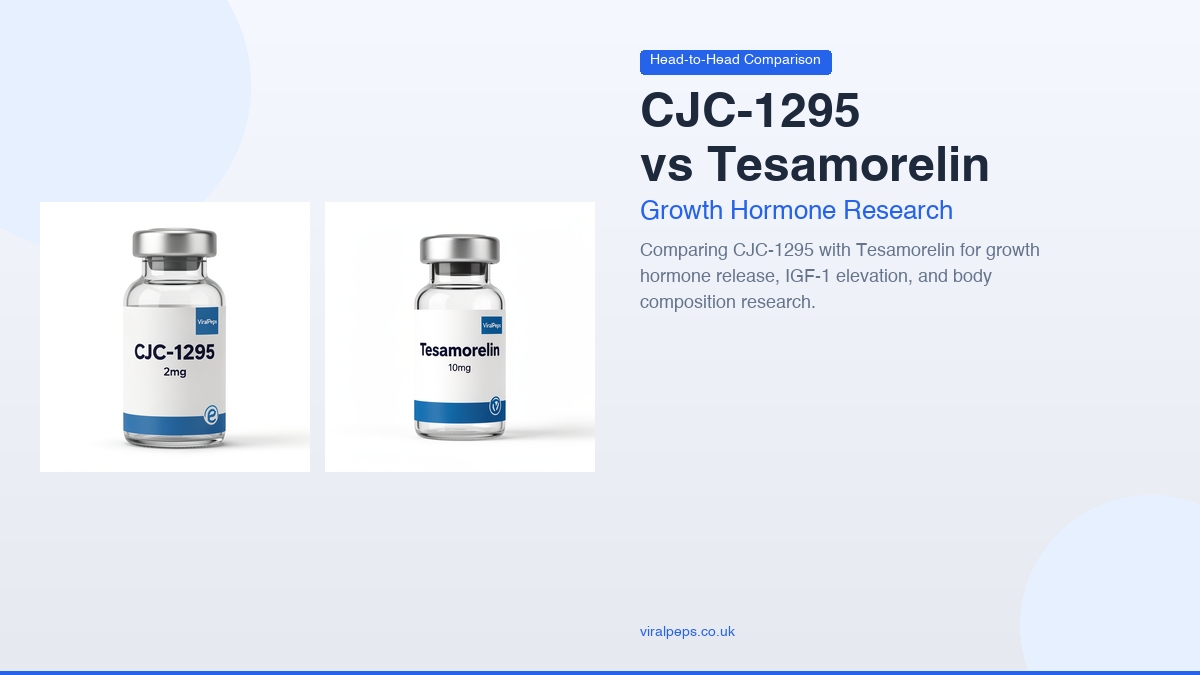
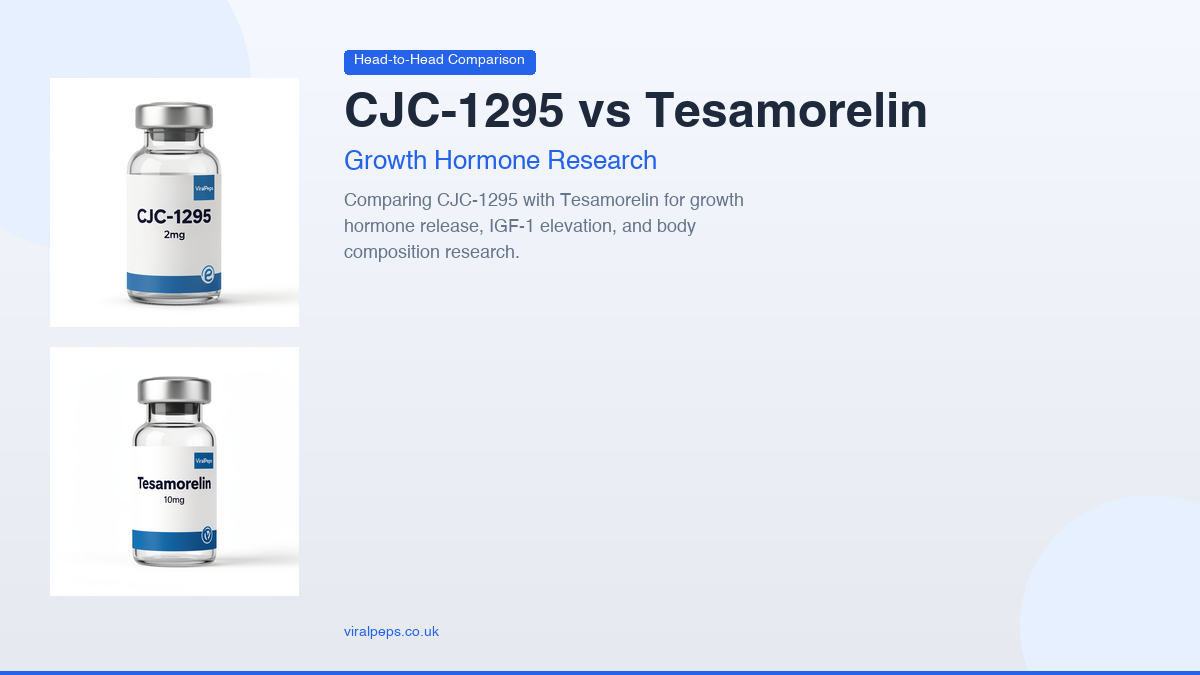
Revert deep dives to original purple style. Fix GHK-Cu vs Retinol & CJC-1295 vs Tesamorelin: vials stacked vertically at full size.

diff --git a/scripts/batch_generate_guide_cards.py b/scripts/batch_generate_guide_cards.py
@@ -69,20 +69,21 @@ def draw_guide_card(
         else:
             text_left = 50
     else:
-        # 2 vials: each at 40% card height, side by side with 15px gap
-        vial_h = int(card_h * 0.40)
-        gap = 15
-        start_x = 40
+        # 2 vials: stacked vertically, each at 37% card height (same visual size as single)
+        vial_h = int(card_h * 0.37)
+        gap = 20
+        start_y = int((card_h - (vial_h * 2 + gap)) / 2)
+        vial_x = 50
         
         for i, vial_path in enumerate(vial_paths[:2]):
             if os.path.exists(vial_path):
                 vial = Image.open(vial_path).convert("RGBA")
                 vw = int(vial_h * vial.width / vial.height)
                 vial = vial.resize((vw, vial_h), Image.LANCZOS)
-                card.paste(vial, (start_x, int((card_h - vial_h) / 2)), vial)
-                start_x += vw + gap
+                vy = start_y + i * (vial_h + gap)
+                card.paste(vial, (vial_x, vy), vial)
         
-        text_left = start_x + 30
+        text_left = vial_x + int(vial_h * 1.0) + 45
 
     # Ensure text has enough room
     if text_left > card_w - 200:
@@ -138,7 +139,7 @@ def draw_guide_card(
 
 # ============ CONFIG: Add/remove cards here ============
 CARDS = [
-    # === COMPARISONS (2 vials side-by-side, fixed text overlap) ===
+    # === COMPARISONS (2 vials stacked vertically, same size as single vial cards) ===
     {
         "compound": "GHK-Cu vs Retinol",
         "vial_paths": ["public/images/compounds/ghk-cu-vial.png", "public/images/compounds/ghk-cu-vial.png"],
@@ -161,271 +162,6 @@ CARDS = [
         ],
         "badge_text": "Head-to-Head Comparison",
         "subtitle_text": "Growth Hormone Research",
-    },
-    {
-        "compound": "Selank vs Semax",
-        "vial_paths": ["public/images/compounds/selank-vial.png", "public/images/compounds/semax-vial.png"],
-        "output_path": "public/images/guides/semax-vs-selank.png",
-        "description_lines": [
-            "Comparing Selank with Semax for anxiety",
-            "modulation, cognitive enhancement, and",
-            "neurological research applications.",
-        ],
-        "badge_text": "Head-to-Head Comparison",
-        "subtitle_text": "Cognitive Research",
-    },
-    {
-        "compound": "GHK-Cu vs BPC-157",
-        "vial_paths": ["public/images/compounds/ghk-cu-vial.png", "public/images/compounds/bpc-157-vial.png"],
-        "output_path": "public/images/guides/ghkcu-vs-bpc157.png",
-        "description_lines": [
-            "Comparing GHK-Cu with BPC-157 for tissue repair,",
-            "wound healing, anti-aging, and regenerative",
-            "medicine research applications.",
-        ],
-        "badge_text": "Head-to-Head Comparison",
-        "subtitle_text": "Tissue Repair Research",
-    },
-    {
-        "compound": "TB-500 vs BPC-157",
-        "vial_paths": ["public/images/compounds/tb-500-vial.png", "public/images/compounds/bpc-157-vial.png"],
-        "output_path": "public/images/guides/tb500-vs-bpc157.png",
-        "description_lines": [
-            "Comparing TB-500 (Thymosin Beta-4) with BPC-157",
-            "for tissue repair, inflammation modulation, and",
-            "regenerative peptide research.",
-        ],
-        "badge_text": "Head-to-Head Comparison",
-        "subtitle_text": "Regenerative Research",
-    },
-    {
-        "compound": "CJC-1295 vs Ipamorelin",
-        "vial_paths": ["public/images/compounds/cjc-1295-vial.png", "public/images/compounds/ipamorelin-vial.png"],
-        "output_path": "public/images/guides/cjc1295-vs-ipamorelin.png",
-        "description_lines": [
-            "Comparing CJC-1295 with Ipamorelin for growth",
-            "hormone secretion, IGF-1 levels, and body",
-            "composition research.",
-        ],
-        "badge_text": "Head-to-Head Comparison",
-        "subtitle_text": "GH Secretagogues",
-    },
-    {
-        "compound": "Tesamorelin vs Sermorelin",
-        "vial_paths": ["public/images/compounds/tesamorelin-vial.png", "public/images/compounds/sermorelin-vial.png"],
-        "output_path": "public/images/guides/tesamorelin-vs-sermorelin.png",
-        "description_lines": [
-            "Comparing Tesamorelin with Sermorelin for GHRH",
-            "agonism, GH/IGF-1 elevation, and metabolic",
-            "research applications.",
-        ],
-        "badge_text": "Head-to-Head Comparison",
-        "subtitle_text": "GHRH Research",
-    },
-    {
-        "compound": "Retatrutide vs Tirzepatide",
-        "vial_paths": ["public/images/compounds/retatrutide-vial.png", "public/images/compounds/tirzepatide-vial.png"],
-        "output_path": "public/images/guides/retatrutide-vs-tirzepatide.png",
-        "description_lines": [
-            "Comparing Retatrutide (triple agonist) with",
-            "Tirzepatide (dual agonist) for weight loss,",
-            "glycemic control, and metabolic research.",
-        ],
-        "badge_text": "Head-to-Head Comparison",
-        "subtitle_text": "Metabolic Research",
-    },
-    {
-        "compound": "Semaglutide vs Tirzepatide",
-        "vial_paths": ["public/images/compounds/semaglutide-vial.png", "public/images/compounds/tirzepatide-vial.png"],
-        "output_path": "public/images/guides/semaglutide-vs-tirzepatide.png",
-        "description_lines": [
-            "Comparing Semaglutide with Tirzepatide for",
-            "GLP-1 agonism, weight reduction, and",
-            "metabolic health research.",
-        ],
-        "badge_text": "Head-to-Head Comparison",
-        "subtitle_text": "GLP-1 Research",
-    },
-    {
-        "compound": "Retatrutide vs Semaglutide",
-        "vial_paths": ["public/images/compounds/retatrutide-vial.png", "public/images/compounds/semaglutide-vial.png"],
-        "output_path": "public/images/guides/retatrutide-vs-semaglutide.png",
-        "description_lines": [
-            "Comparing Retatrutide (triple agonist) with",
-            "Semaglutide (GLP-1 agonist) for metabolic",
-            "research and weight management outcomes.",
-        ],
-        "badge_text": "Head-to-Head Comparison",
-        "subtitle_text": "Metabolic Research",
-    },
-    {
-        "compound": "Oxytocin vs PT-141",
-        "vial_paths": ["public/images/compounds/oxytocin-vial.png", "public/images/compounds/pt-141-vial.png"],
-        "output_path": "public/images/guides/oxytocin-vs-pt141.png",
-        "description_lines": [
-            "Comparing Oxytocin with PT-141 (Bremelanotide)",
-            "for social bonding, sexual health research, and",
-            "melanocortin pathway modulation.",
-        ],
-        "badge_text": "Head-to-Head Comparison",
-        "subtitle_text": "Neuroendocrine Research",
-    },
-    {
-        "compound": "PT-141 vs Melanotan II",
-        "vial_paths": ["public/images/compounds/pt-141-vial.png", "public/images/compounds/melanotan-ii-vial.png"],
-        "output_path": "public/images/guides/pt141-vs-melanotan2.png",
-        "description_lines": [
-            "Comparing PT-141 (Bremelanotide) with Melanotan II",
-            "for melanocortin receptor research, sexual health,",
-            "and pigmentation studies.",
-        ],
-        "badge_text": "Head-to-Head Comparison",
-        "subtitle_text": "Melanocortin Research",
-    },
-    {
-        "compound": "AOD-9604 vs Tesamorelin",
-        "vial_paths": ["public/images/compounds/aod-9604-vial.png", "public/images/compounds/tesamorelin-vial.png"],
-        "output_path": "public/images/guides/aod9604-vs-tesamorelin.png",
-        "description_lines": [
-            "Comparing AOD-9604 with Tesamorelin for",
-            "lipolysis, fat metabolism, GH release, and",
-            "body composition research.",
-        ],
-        "badge_text": "Head-to-Head Comparison",
-        "subtitle_text": "Metabolic Research",
-    },
-    {
-        "compound": "Selank vs Semax (ADHD)",
-        "vial_paths": ["public/images/compounds/selank-vial.png", "public/images/compounds/semax-vial.png"],
-        "output_path": "public/images/guides/selank-vs-semax-adhd.png",
-        "description_lines": [
-            "Comparing Selank with Semax for ADHD-related",
-            "cognitive symptoms, focus enhancement, and",
-            "neurological research applications.",
-        ],
-        "badge_text": "Head-to-Head Comparison",
-        "subtitle_text": "Cognitive Research",
-    },
-    # === DEEP DIVES (single vial, white/blue style - FIXED from purple) ===
-    {
-        "compound": "BPC-157",
-        "vial_paths": ["public/images/compounds/bpc-157-vial.png"],
-        "output_path": "public/images/guides/bpc157-deep-dive-2.png",
-        "description_lines": [
-            "BPC-157 deep dive: mechanisms, tissue regeneration,",
-            "gastrointestinal healing, tendon repair, dosing",
-            "protocols, and current research evidence.",
-        ],
-        "badge_text": "Deep Dive Report",
-        "subtitle_text": "Deep Dive",
-    },
-    {
-        "compound": "GHK-Cu",
-        "vial_paths": ["public/images/compounds/ghk-cu-vial.png"],
-        "output_path": "public/images/guides/ghkcu-deep-dive.png",
-        "description_lines": [
-            "GHK-Cu deep dive: copper-binding tripeptide for",
-            "tissue regeneration, wound healing, anti-aging,",
-            "collagen synthesis, and hair regrowth research.",
-        ],
-        "badge_text": "Deep Dive Report",
-        "subtitle_text": "Deep Dive",
-    },
-    {
-        "compound": "Retatrutide",
-        "vial_paths": ["public/images/compounds/retatrutide-vial.png"],
-        "output_path": "public/images/guides/retatrutide-deep-dive.png",
-        "description_lines": [
-            "Retatrutide deep dive: triple GIP/GLP-1/glucagon",
-            "agonist for metabolic research, weight reduction,",
-            "glycemic control, and Phase 2 trial data.",
-        ],
-        "badge_text": "Deep Dive Report",
-        "subtitle_text": "Deep Dive",
-    },
-    {
-        "compound": "Semax",
-        "vial_paths": ["public/images/compounds/semax-vial.png"],
-        "output_path": "public/images/guides/semax-deep-dive.png",
-        "description_lines": [
-            "Semax deep dive: synthetic peptide for cognitive",
-            "enhancement, neuroprotection, BDNF modulation,",
-            "and neurological research applications.",
-        ],
-        "badge_text": "Deep Dive Report",
-        "subtitle_text": "Deep Dive",
-    },
-    {
-        "compound": "Melanotan II",
-        "vial_paths": ["public/images/compounds/melanotan-ii-vial.png"],
-        "output_path": "public/images/guides/melanotan2-deep-dive.png",
-        "description_lines": [
-            "Melanotan II deep dive: synthetic melanocortin",
-            "agonist for tanning research, libido studies,",
-            "and melanogenesis pathway investigation.",
-        ],
-        "badge_text": "Deep Dive Report",
-        "subtitle_text": "Deep Dive",
-    },
-    {
-        "compound": "Oxytocin",
-        "vial_paths": ["public/images/compounds/oxytocin-vial.png"],
-        "output_path": "public/images/guides/oxytocin-deep-dive.png",
-        "description_lines": [
-            "Oxytocin deep dive: neuropeptide for social",
-            "bonding, anxiety modulation, pain research, and",
-            "therapeutic applications in psychiatry.",
-        ],
-        "badge_text": "Deep Dive Report",
-        "subtitle_text": "Deep Dive",
-    },
-    {
-        "compound": "Sermorelin",
-        "vial_paths": ["public/images/compounds/sermorelin-vial.png"],
-        "output_path": "public/images/guides/sermorelin-deep-dive.png",
-        "description_lines": [
-            "Sermorelin deep dive: GHRH analogue for growth",
-            "hormone stimulation, anti-aging research, body",
-            "composition, and peptide therapy protocols.",
-        ],
-        "badge_text": "Deep Dive Report",
-        "subtitle_text": "Deep Dive",
-    },
-    {
-        "compound": "Tesamorelin",
-        "vial_paths": ["public/images/compounds/tesamorelin-vial.png"],
-        "output_path": "public/images/guides/tesamorelin-deep-dive.png",
-        "description_lines": [
-            "Tesamorelin deep dive: GHRH analogue for visceral",
-            "fat reduction, GH/IGF-1 elevation, and metabolic",
-            "research in HIV-associated lipodystrophy.",
-        ],
-        "badge_text": "Deep Dive Report",
-        "subtitle_text": "Deep Dive",
-    },
-    {
-        "compound": "Semaglutide",
-        "vial_paths": ["public/images/compounds/semaglutide-vial.png"],
-        "output_path": "public/images/guides/semaglutide-deep-dive.png",
-        "description_lines": [
-            "Semaglutide deep dive: GLP-1 receptor agonist for",
-            "type 2 diabetes, obesity research, cardiovascular",
-            "outcomes, and metabolic health applications.",
-        ],
-        "badge_text": "Deep Dive Report",
-        "subtitle_text": "Deep Dive",
-    },
-    {
-        "compound": "Tirzepatide",
-        "vial_paths": ["public/images/compounds/tirzepatide-vial.png"],
-        "output_path": "public/images/guides/tirzepatide-deep-dive-2.png",
-        "description_lines": [
-            "Tirzepatide deep dive: dual GIP/GLP-1 agonist",
-            "for metabolic research, superior weight loss,",
-            "glycemic control, and cardiovascular outcomes.",
-        ],
-        "badge_text": "Deep Dive Report",
-        "subtitle_text": "Deep Dive",
     },
 ]
 
